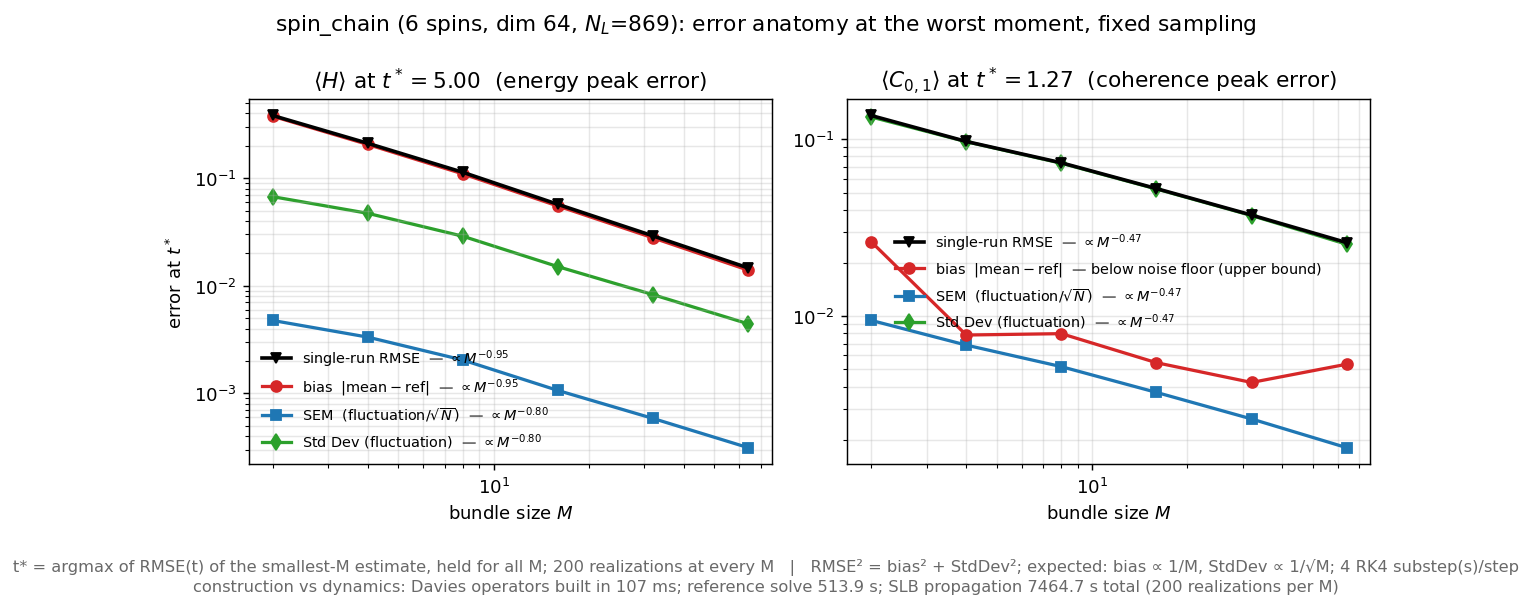
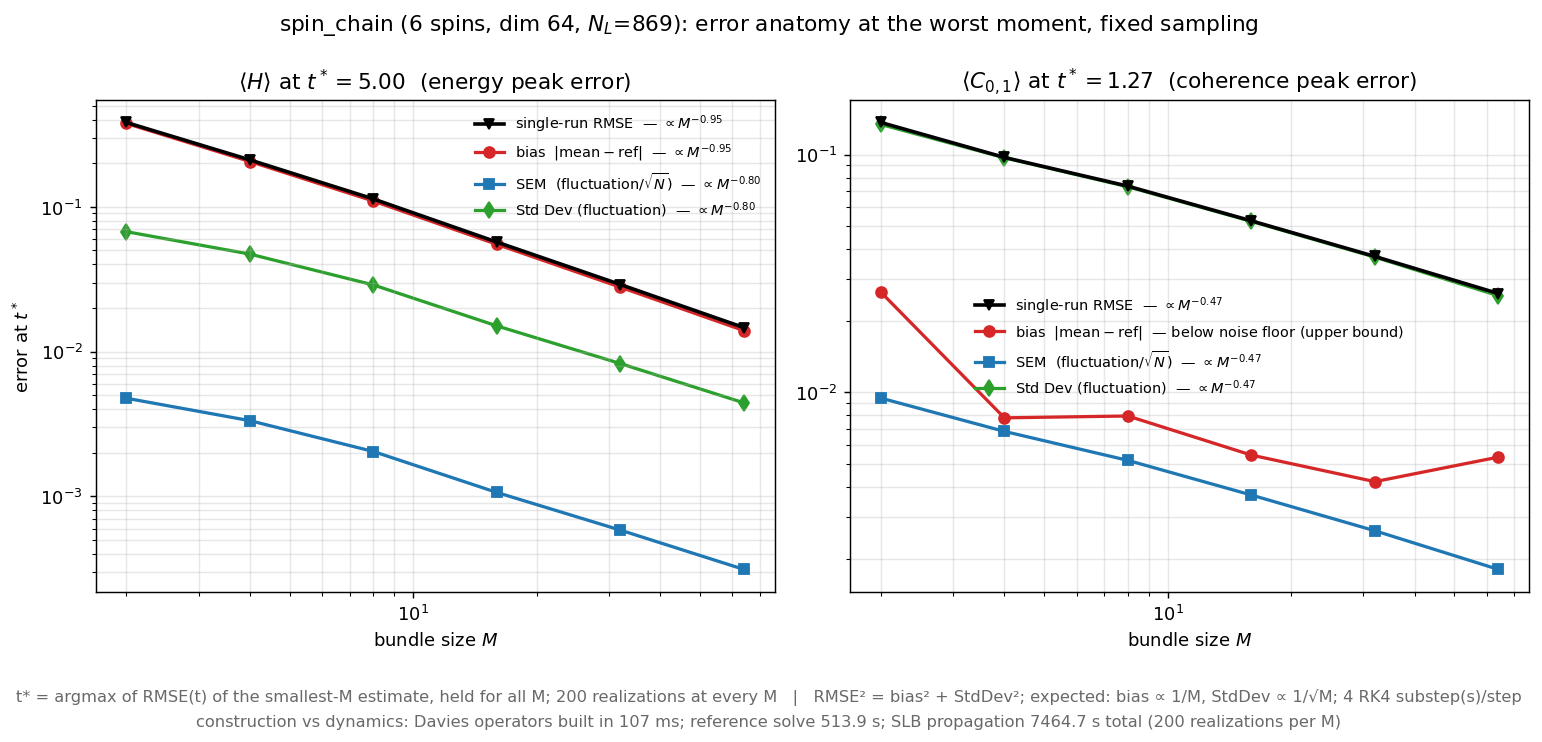
R2: ensemble headline restored + figures regenerated from dim-128 data; prose fixes; restore System A/B schematics; harden R1 toggle with documented default + _ensRMSE suffix guard

diff --git a/benchmarks/plot_accuracy_vs_M.py b/benchmarks/plot_accuracy_vs_M.py
@@ -201,7 +201,7 @@ def decomposition_figure(plt, name, doc, tlist):
         ("samples_coherence", as_array(doc["reference_coherence"]),
          rf"\langle C_{{{ia},{ib}}}\rangle", "coherence"),
     ]
-    fig, axes = plt.subplots(1, 2, figsize=(9.6, 4.2))
+    fig, axes = plt.subplots(1, 2, figsize=(12.0, 5.2))
     t_stars = []
     for ax, (key, ref, obs_math, obs_name) in zip(axes, panels):
         t_star, m, bias, fluct = peak_error_anatomy(doc, key, ref)
